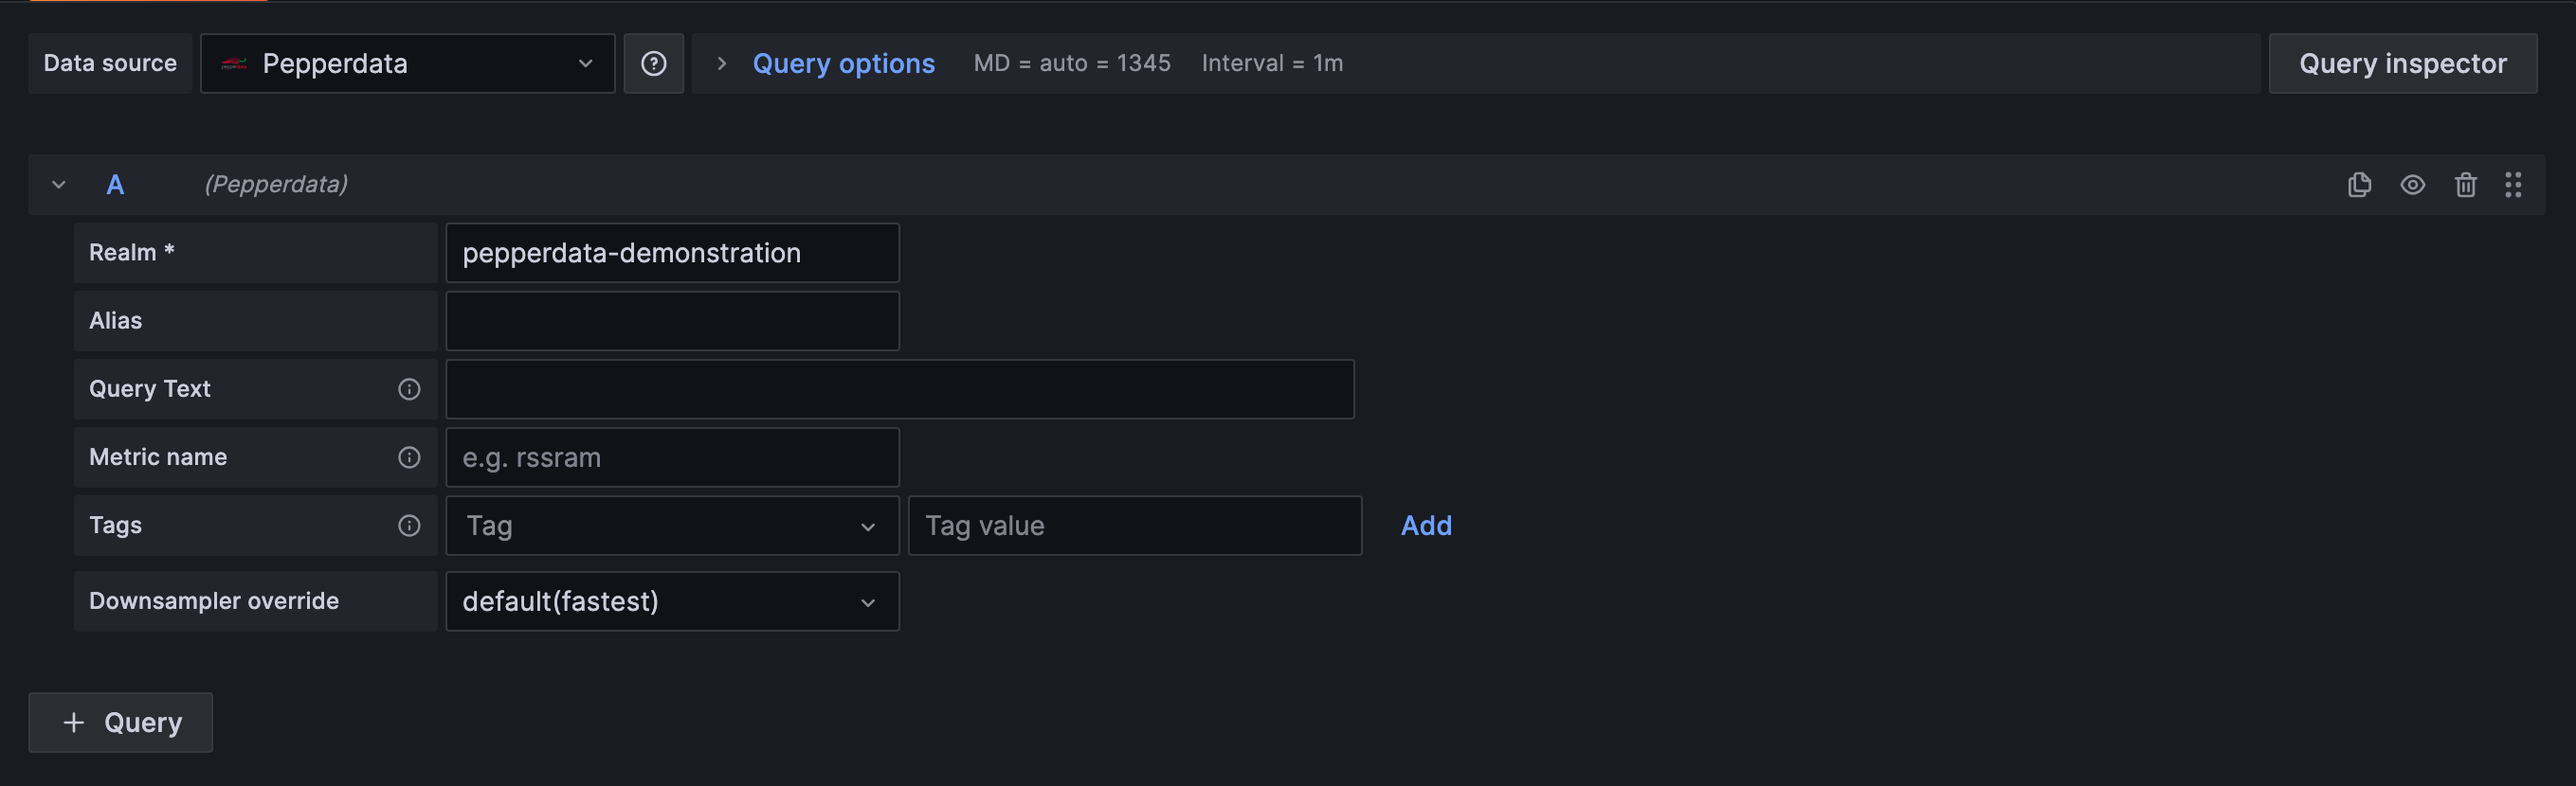
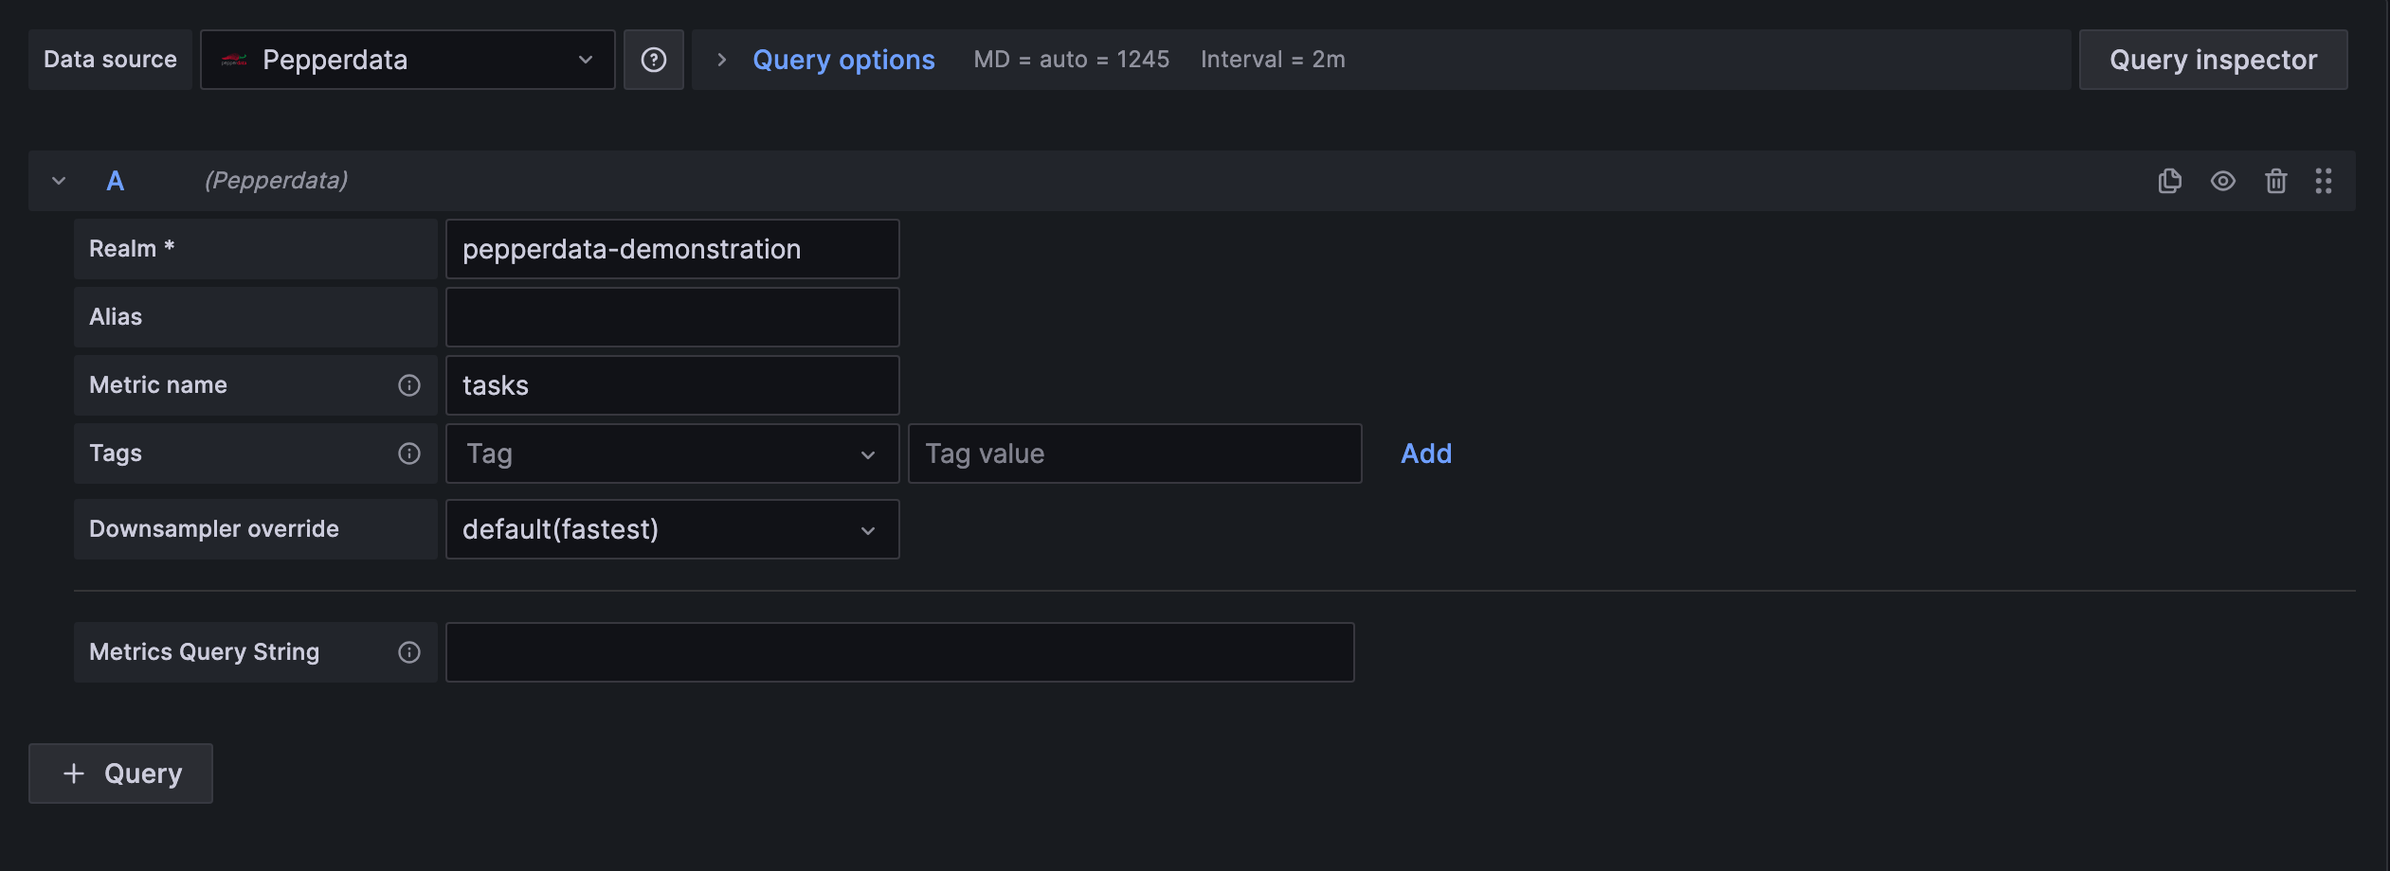
Update screenshot/readme with new layout

diff --git a/src/components/QueryEditor.tsx b/src/components/QueryEditor.tsx
@@ -205,7 +205,7 @@ export function QueryEditor({ query, onChange, onRunQuery, datasource }: Props) 
       </InlineField>
       <hr />
       <InlineField
-        label="Metrics Query String"
+        label="Metrics query string"
         labelWidth={LABEL_WIDTH}
         tooltip="If you know the metrics API query
           string you can paste it here, e.g. m=tasks&u=bob&downsampler=maximum. Otherwise, use the fields

diff --git a/src/README.md b/src/README.md
@@ -27,7 +27,7 @@ Once the datasource is connected, you can start building visualizations using Pe
 
 - Realm: this is required so we know which realm to query metrics.
 - Alias: an optional label applied to this metrics query that will be displayed in the visualization.
-- Query Text: an optional field that lets you build the metrics query manually using query params (see https://help.pepperdata.com/rest-api/zz-metrics/ for more details). If providing a custom query string, the fields below it will be disabled.
 - Metric name: provide the name of the metric you want to query.
 - Tags: if you want to filter this query by certain tags, provide them here.
 - Downsampler override: optionally change the downsampler operator for this query.
+- Metrics query string: an optional field that lets you build the metrics query manually using query params (see https://help.pepperdata.com/rest-api/zz-metrics/ for more details). If providing a custom query string, the other fields will be disabled.
